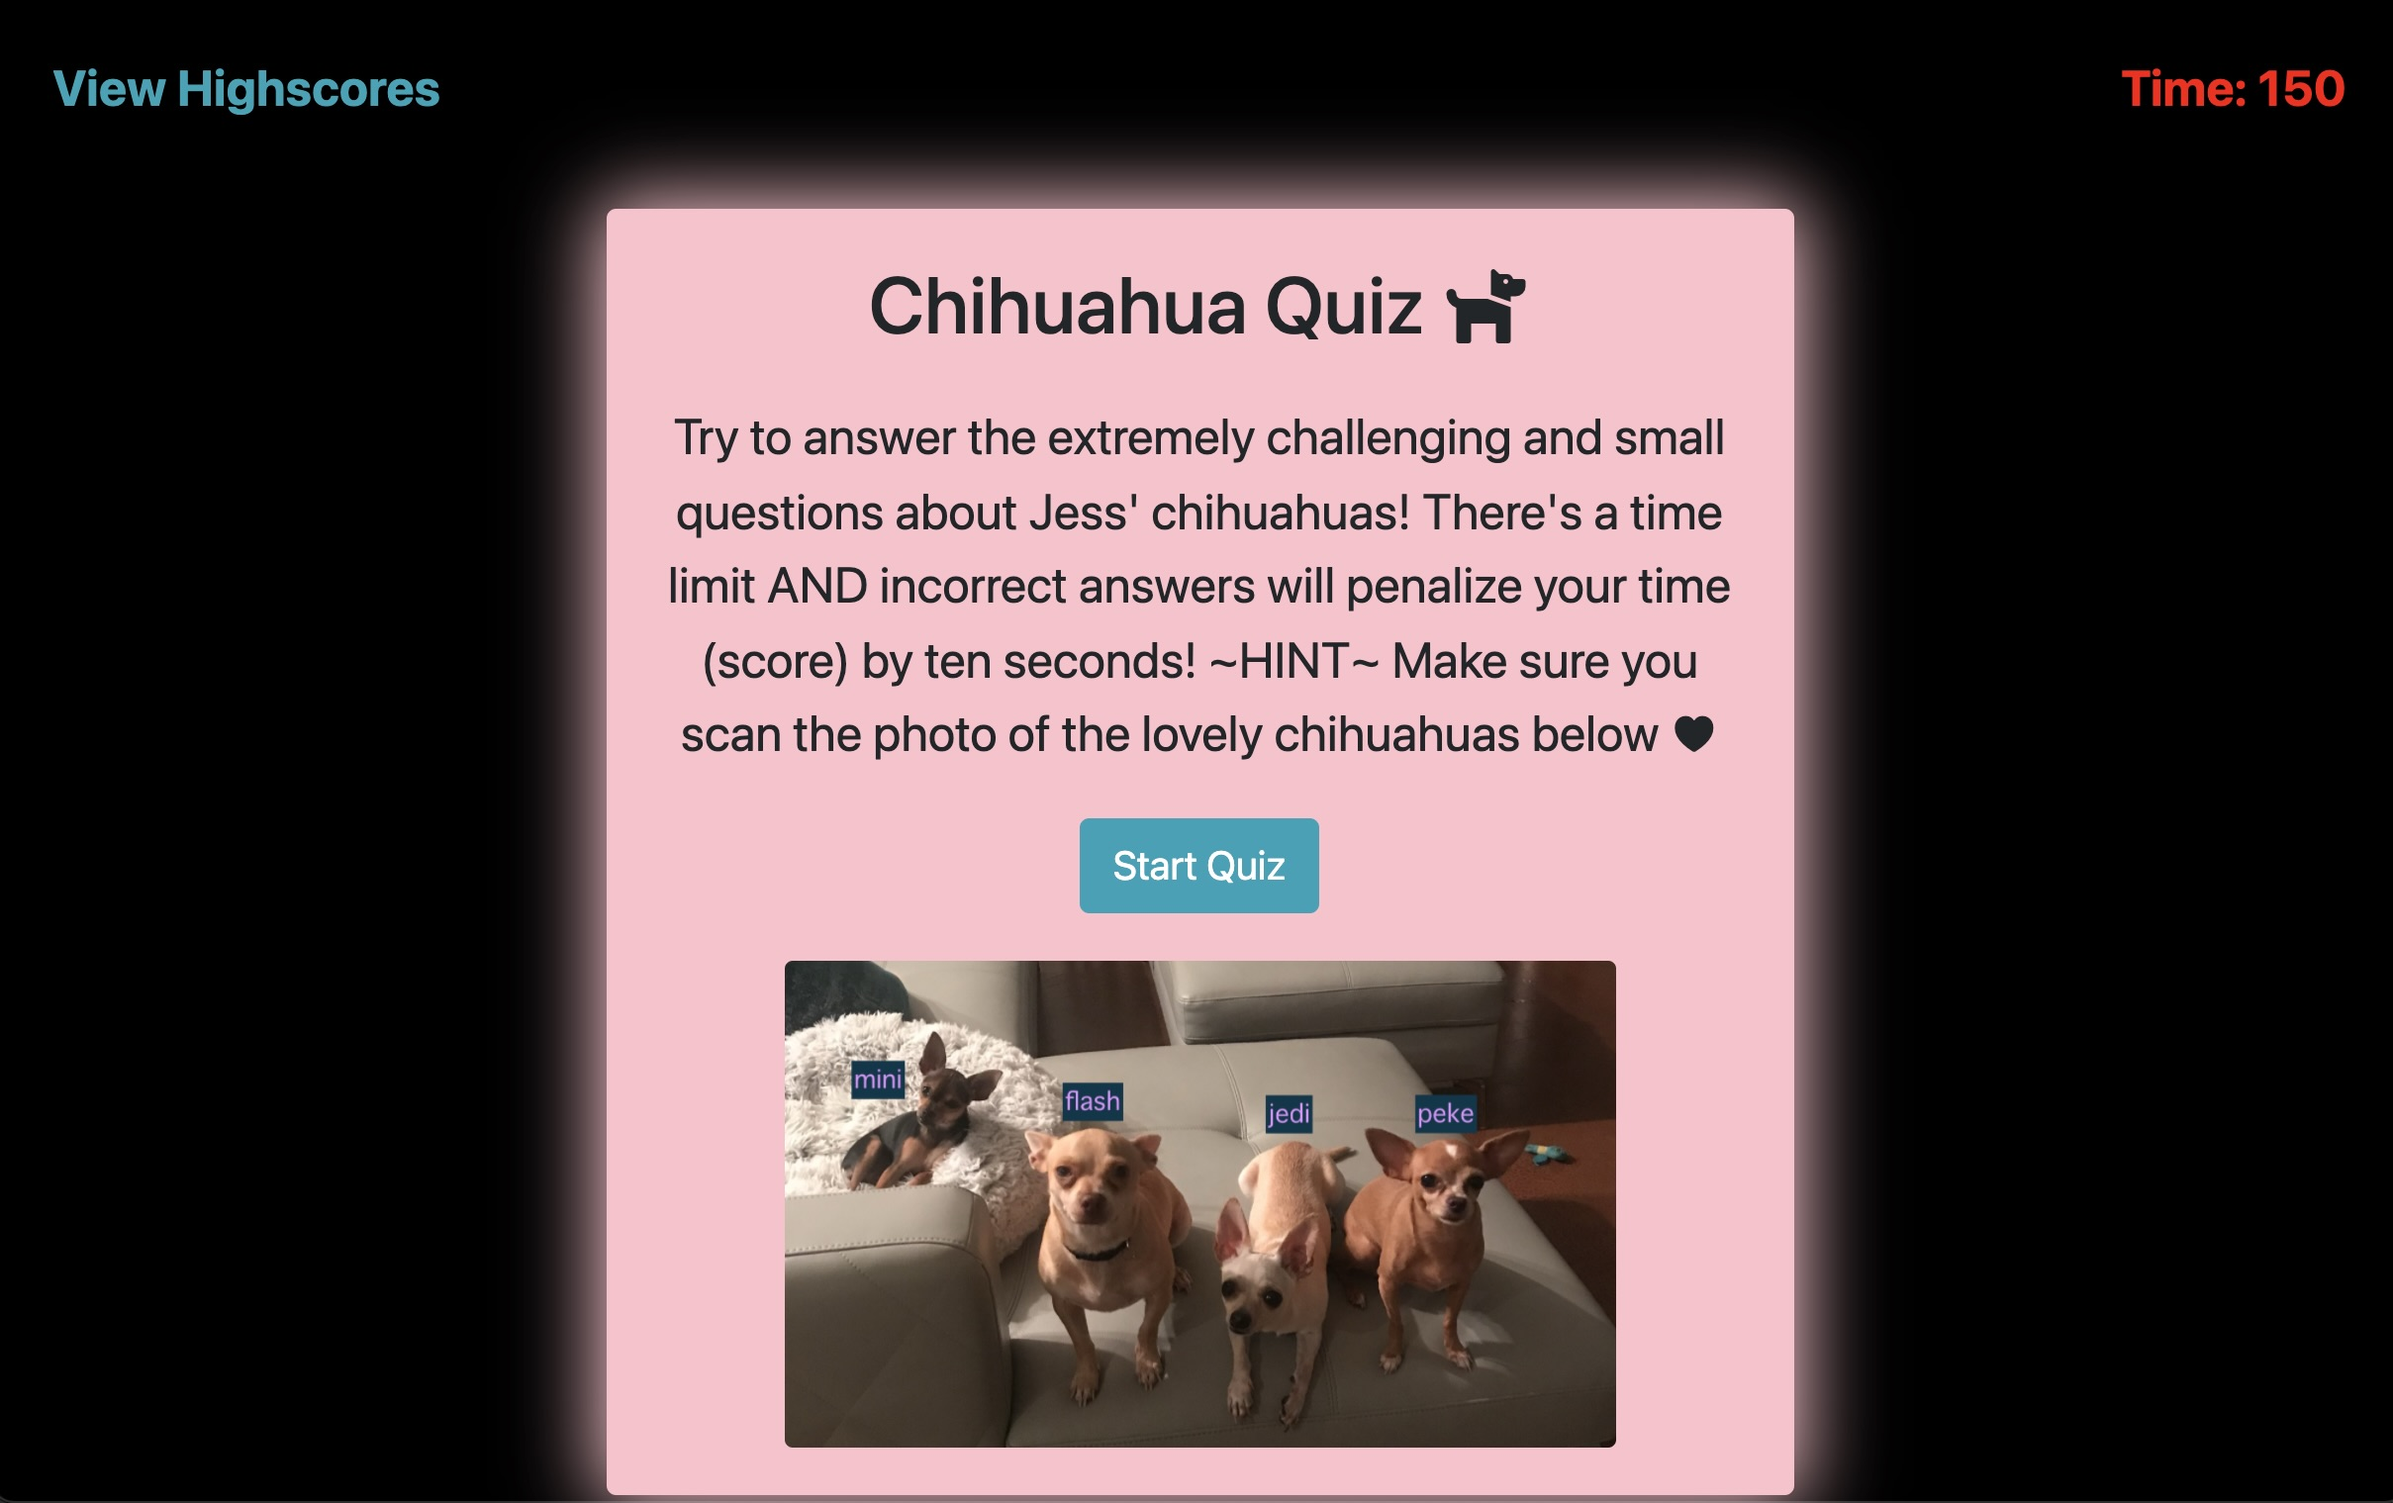
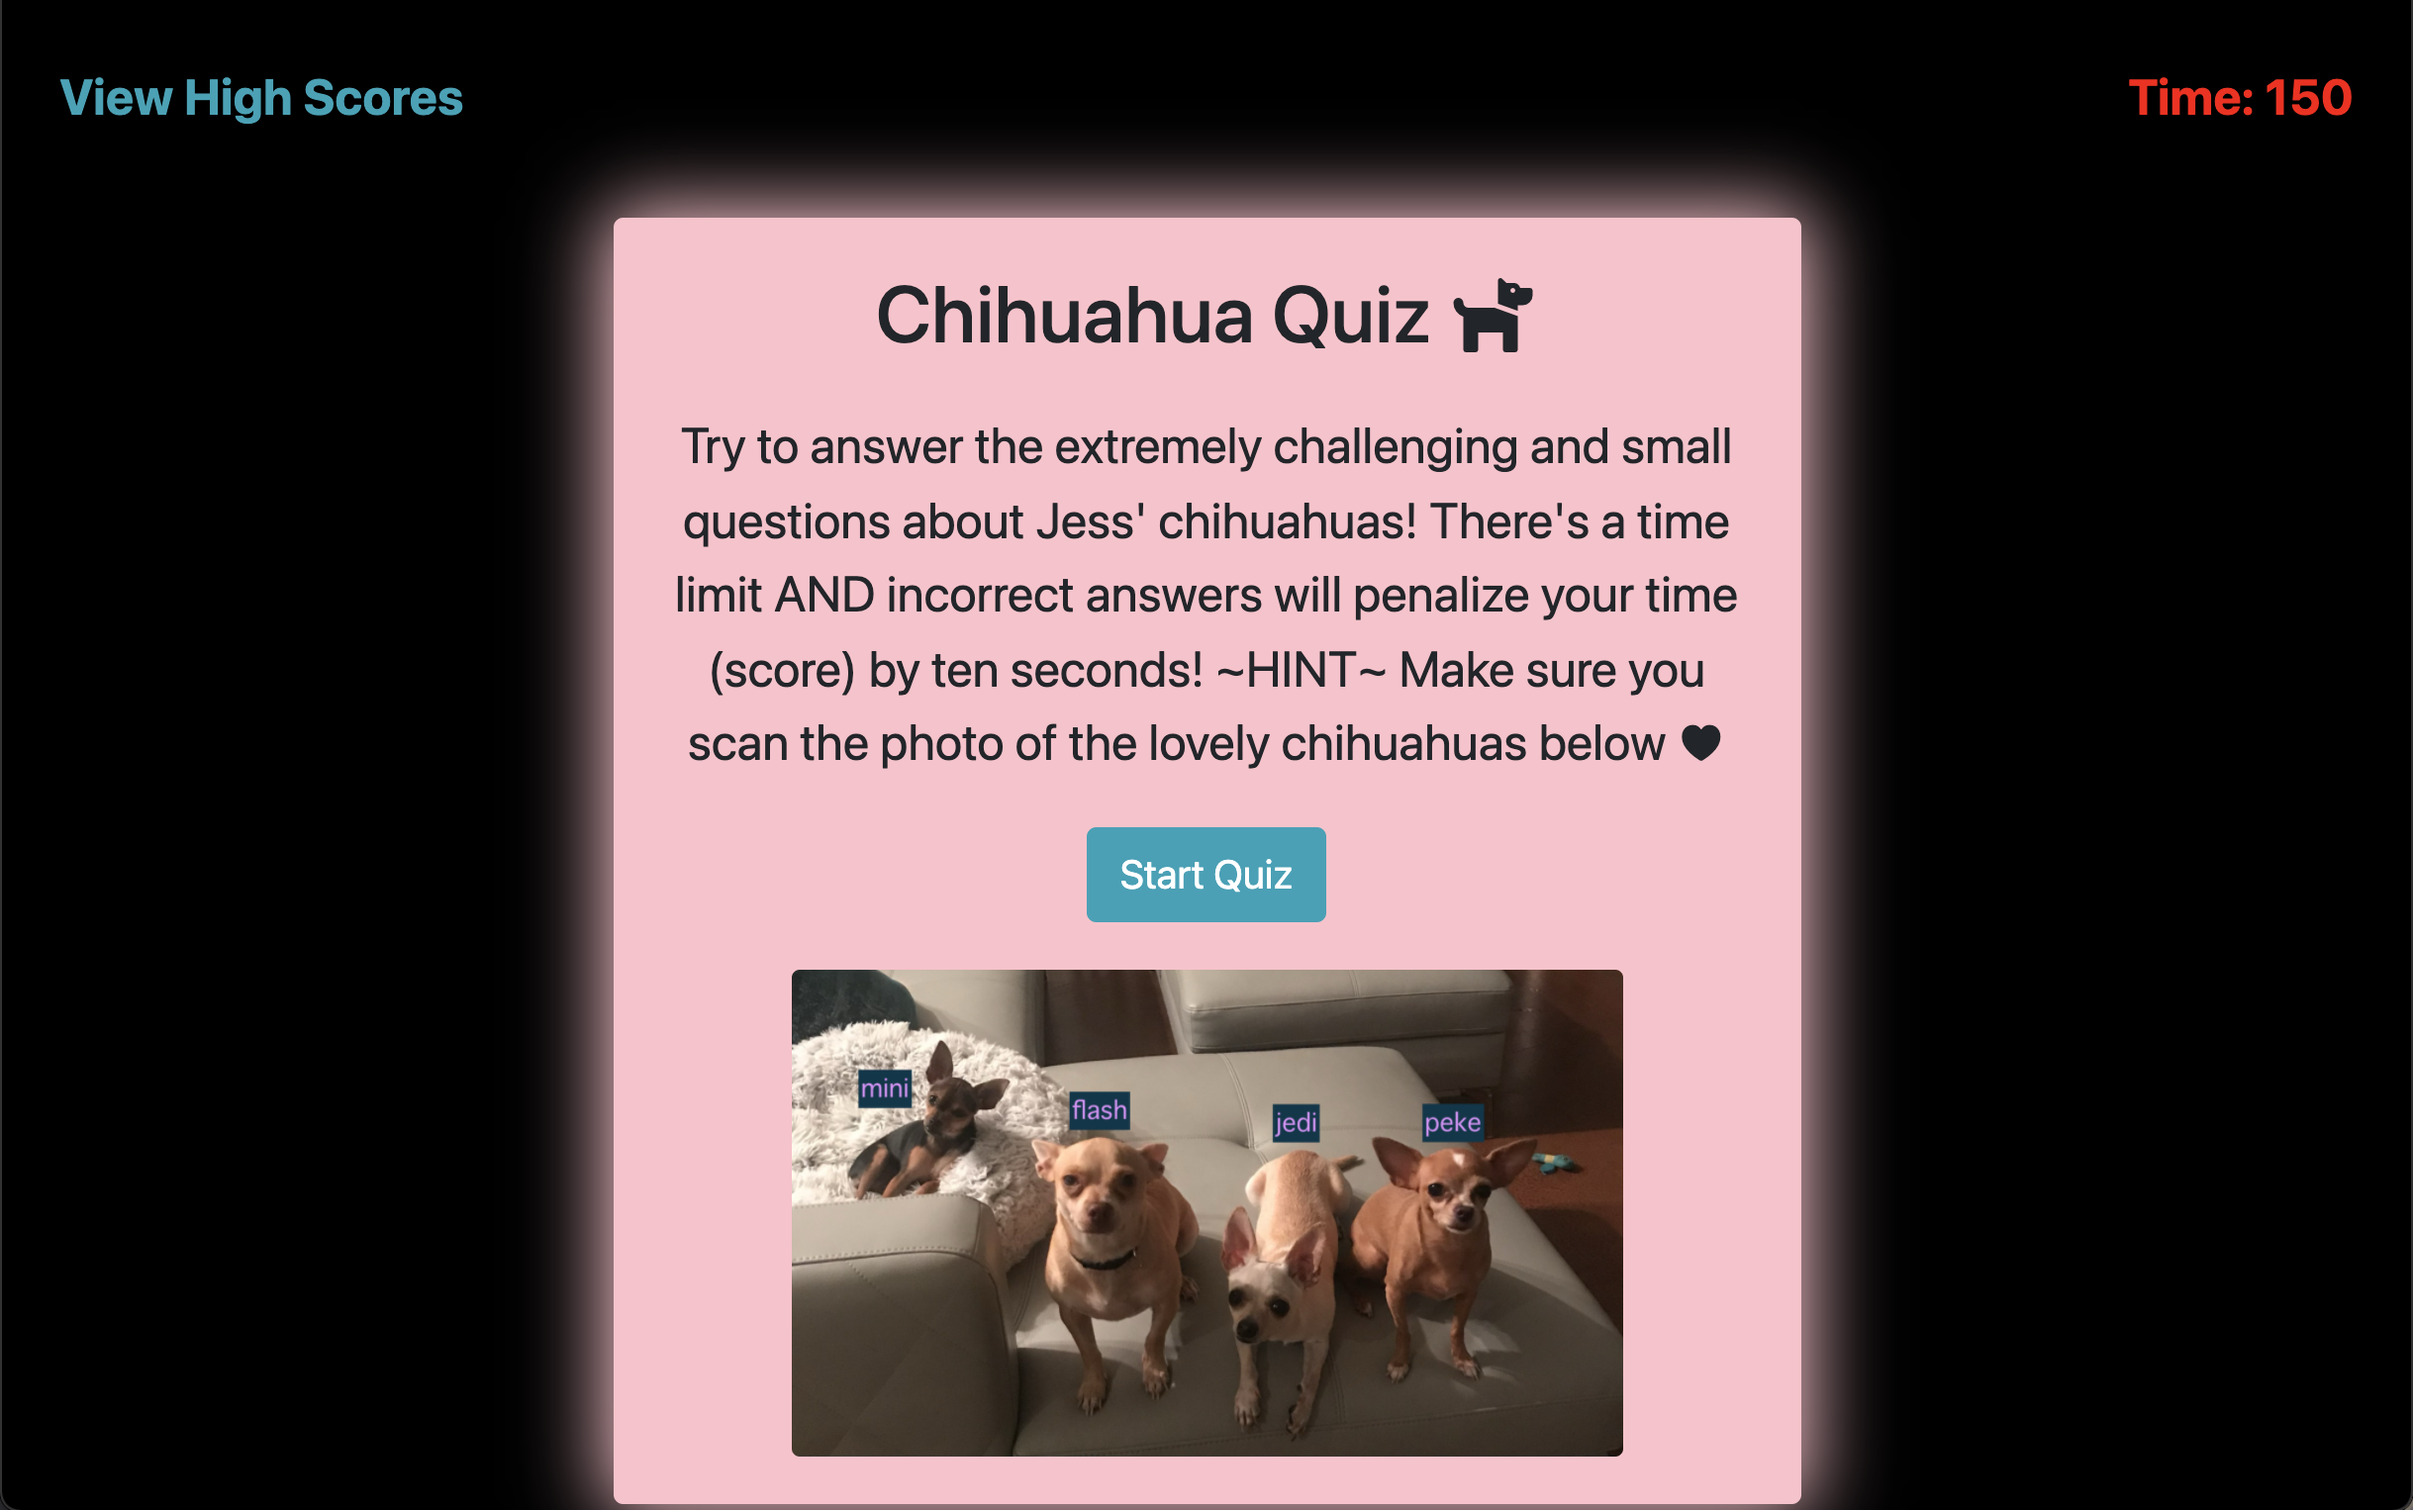
README: added photos and descriptions

diff --git a/highscores.html b/highscores.html
@@ -4,7 +4,7 @@
     <meta charset="UTF-8" />
     <meta name="viewport" content="width=device-width, initial-scale=1.0" />
     <meta http-equiv="X-UA-Compatible" content="ie=edge" />
-    <title>Highscores</title>
+    <title>High Scores!</title>
 
     <!-- css link-->
     <link rel="stylesheet" href="./assets/styles.css" />
@@ -26,7 +26,7 @@
       <!-- buttons -->
       <div class="d-flex justify-content-around">
         <a href="index.html"><button class="btn btn-light" onclick="$(this).blur();">Go Back</button></a>
-        <button id="clear" class="btn btn-light">Clear Highscores</button>
+        <button id="clear" class="btn btn-light">Clear High Scores</button>
       </div>
     </div>
 

diff --git a/index.html b/index.html
@@ -27,7 +27,7 @@
   </head>
 
   <body class="body">
-    <div class="scores"><a href="highscores.html">View Highscores</a></div>
+    <div class="scores"><a href="highscores.html">View High Scores</a></div>
 
     <div class="timer">Time: <span id="time">150</span></div>  
     <div id="deduct" class="minus hide">-10 sec!</div>

diff --git a/README.md b/README.md
@@ -6,9 +6,9 @@ The purpose of this project was to create an application for a client that an em
 
 ## Built With
 
-![js percentage](https://img.shields.io/badge/javascript-59.2-green)
-![css percentage](https://img.shields.io/badge/css-29.5%25-ff69b4)
-![html percentage](https://img.shields.io/badge/html-13.4%25-9cf)
+![js percentage](https://img.shields.io/badge/javascript-62.5-green)
+![html percentage](https://img.shields.io/badge/html-28.2%25-9cf)
+![css percentage](https://img.shields.io/badge/css-9.3%25-ff69b4)
 
 ## Table of Contents
 
@@ -16,7 +16,6 @@ The purpose of this project was to create an application for a client that an em
 - [Acceptance Criteria](#challenge---acceptance-criteria)
 - [Application Website Link](#application-website-link)
 - [JavaScript Code](#javascript-code)
-- [Challenges](#challenges)
 - [Credits](#credits)
 
 
@@ -46,92 +45,52 @@ GIVEN I need a new, secure password
 
 [Chihuahua Quiz!](https://jessoliva.github.io/chihuahua-quiz/)
 
-<img src="assets/images/app-mockup.png" alt="mock up" width="60%">
-
 ## JavaScript Code
 
 To build this application, I wrote code that overall does the following:
-- Asks the user to input a password length meeting this criteria: 8 ≤ password length ≤ 128
-    - If criteria is not met, user is alerted and asked to input a valid value
-    <p align="left" width="100%">
-    &emsp;&emsp;&emsp;<img src="assets/images/confirmLength.png" alt="for loop code" width="60%" align="top"> 
-    </p>
-
-- Asks user if they want their password to include: lowercase letters, uppercase letters, numbers, special characters
-    - When the user confirms a condition
-        - The array linked to the condition confirmed is pushed into an empty array userSelCha
-            - userSelCha will hold all the array characters from the conditions confirmed
-        - A random character from the array of linked condition confirmed is pushed into an empty array userSelPass
-            - userSelPass will hold the user password
-    - If user does not select any conditions, user is alerted that at least one condition must be selected
-<p align="left" width="100%">
-&emsp;&emsp;&emsp;<img src="assets/images/1start.jpeg" alt="for loop code" width="75%" align="top"> 
-</p>
+- The start screen displays, explaining the quiz and parameters
 
 <p align="left" width="100%">
-&emsp;&emsp;&emsp;<img src="assets/images/3ques.jpeg" alt="for loop code" width="75%" align="top"> 
+&emsp;&emsp;&emsp;<img src="assets/images/1start.jpeg" alt="start screen" width="75%" align="top"> 
 </p>
+
+- When the user clicks the start button, the first question displays
+    - The top right of the screen displays a timer with a countdown starting at 150 seconds
 
 <p align="left" width="100%">
-&emsp;&emsp;&emsp;<img src="assets/images/confirmConditions3.png" alt="for loop code" width="75%" align="top"> 
+&emsp;&emsp;&emsp;<img src="assets/images/2ques.jpeg" alt="question screen with wrong answer" width="75%" align="top"> 
 </p>
 
-- Loops through the userSelCha array which holds all the characters from the arrays linked to the conditions confirmed by the user. For loop retrieves a random character from that array and adds it to the userSelPass array until the password length the user input is reached
-<p align="left" width="100%">
-&emsp;&emsp;&emsp;<img src="assets/images/for-loop.png" alt="for loop code" width="75%" align="top"> 
-</p>
+- When the user answers the question correctly, the next question displays
 
-- Uses the Fisher-Yates shuffle to shuffle the userSelPass array and return a final password for the user
+- When the user answers the question incorrectly, 10 seconds are deducted from the timer. The user is alerted of the 10sec deduction. Then the next question is displayed
 
 <p align="left" width="100%">
-&emsp;&emsp;&emsp;<img src="assets/images/shuffle.png" alt="for loop code" width="60%" align="top"> 
+&emsp;&emsp;&emsp;<img src="assets/images/3ques.jpeg" alt="question screen" width="75%" align="top"> 
 </p>
 
-## Challenges
+- When the user finishes answering all of the questions, the timer stops and end quiz screen displays. The end screen shows the users score, which is based on the time left on the timer and asks the user to input a name to save the score. When the user clicks submit, or presses enter when they're still in the input field, their score is saved.
 
-As I was writing my code for this application, I came across several challenges. I solved those challenges in my code a specific way. This section will discuss those challenges, how I tackled them, and other ways to solve them.
-
-### Challenge 1
-#### Problem
-Once the user confirmed a condition, and the array linked to that condition was pushed to userSelCha, a for loop looped through that array and retrieved and pushed a random character into the userSelPass array until the password length the user input was met.
-Since the passNumber and passSpecial arrays were shorter than the letter arrays due to less numbers and special characters, there was a chance that shorter passwords would not contain a character from each condition if the user confirmed all the conditions.
-
-#### Solution
-Once the user confirmed a condition, I pushed a random character from that array into userSelPass to ensure at least one character from each confirmed condition was in the password.
-
-### Challenge 2
-#### Problem
-The previous solution led to the password (userSelPass array) having its first few characters be from whichever conditions the user confirmed in order. 
-- For example, if the user said yes to all conditions each time they created a password, those passwords would include (lowercase letter)(uppercase letter)(number)(special character)(remainder of password characters would be truly random)
-
-#### Solution
-I learned about the Fisher-Yates shuffle and used it to shuffle the userSelPass so the passwords could be truly random.
-
-### Challenge 1 and Challenge 2
-#### Alternate Solution
-Instead of doing all that, I could have modified the arrays holding the characters linked to the password conditions, and just added more characters to the shorter arrays. This would lead to each array having almost an equal amount of values and lowering the probability of shorter passwords not including a character from each confirmed condition.
-But! I had fun learning about the Fisher-Yates shuffle and wanted to use it.
-
-- My Arrays
 <p align="left" width="100%">
-&emsp;&emsp;&emsp;<img src="assets/images/array1.png" alt="for loop code" width="40%" align="top"> 
+&emsp;&emsp;&emsp;<img src="assets/images/4score.jpeg" alt="enter score screen" width="75%" align="top"> 
 </p>
 
-- Alternate Arrays
+- If the time runs out, the user loses and the lose screen is displayed. The user is provided with two options: 
+    - If they click the "Do you want to play again?" button, the quiz restarts.
+    - If they click the "Home Screen" button, they are taken to the start screen.
+
 <p align="left" width="100%">
-&emsp;&emsp;&emsp;<img src="assets/images/array2.png" alt="for loop code" width="40%" align="top"> 
+&emsp;&emsp;&emsp;<img src="assets/images/5lose.jpeg" alt="lose screen" width="75%" align="top"> 
 </p>
 
-### Alternate Code
-I also learned about slice(). Instead of using a for loop, I could've just shuffled the userSelCha array and sliced it! To only keep a number of characters that matches the password length the user input. <br />
-- Very basic example: <br />
-    - user input confirmLength = 5 <br />
-    - var userSelCha = "lk!A2sf;liKD94j#$2;ab" //already shuffled <br />
-    - userSelCha.slice(0, (confirmLength-1)) //slice it <br />
-    - userSelCha = "lk!A2"
+- The left top link "View High Scores" takes you to another page where high scores are displayed. The high scores are displayed in descending order. The user is presented with two options:
+    - If they click the "Go Back" button, they are taken to the start screen.
+    - If they click the "Clear High Scores" button, the high scores are cleared.
+<p align="left" width="100%">
+&emsp;&emsp;&emsp;<img src="assets/images/6scores.jpeg" alt="enter score screen" width="75%" align="top"> 
+</p>
 
 ## Credits
-- Mike Bostock - [Fisher-Yates Shuffle](https://bost.ocks.org/mike/shuffle/)
-- James Bub - [Fisher-Yates Algorith](https://dev.to/codebubb/how-to-shuffle-an-array-in-javascript-2ikj)
-- [Stack Overflow: Fisher-Yates Shuffle](https://stackoverflow.com/questions/2450954/how-to-randomize-shuffle-a-javascript-array)
+- Web Dev Simplified - [Build A Quiz App With Javascript](https://www.youtube.com/watch?v=riDzcEQbX6k)
+- [Stack Overflow: Reset Bootstrap Button](https://stackoverflow.com/questions/63359425/reset-bootstrap-button-to-the-normal-styles-after-clicking)
 - Badges - [Shields.io](https://shields.io/)
